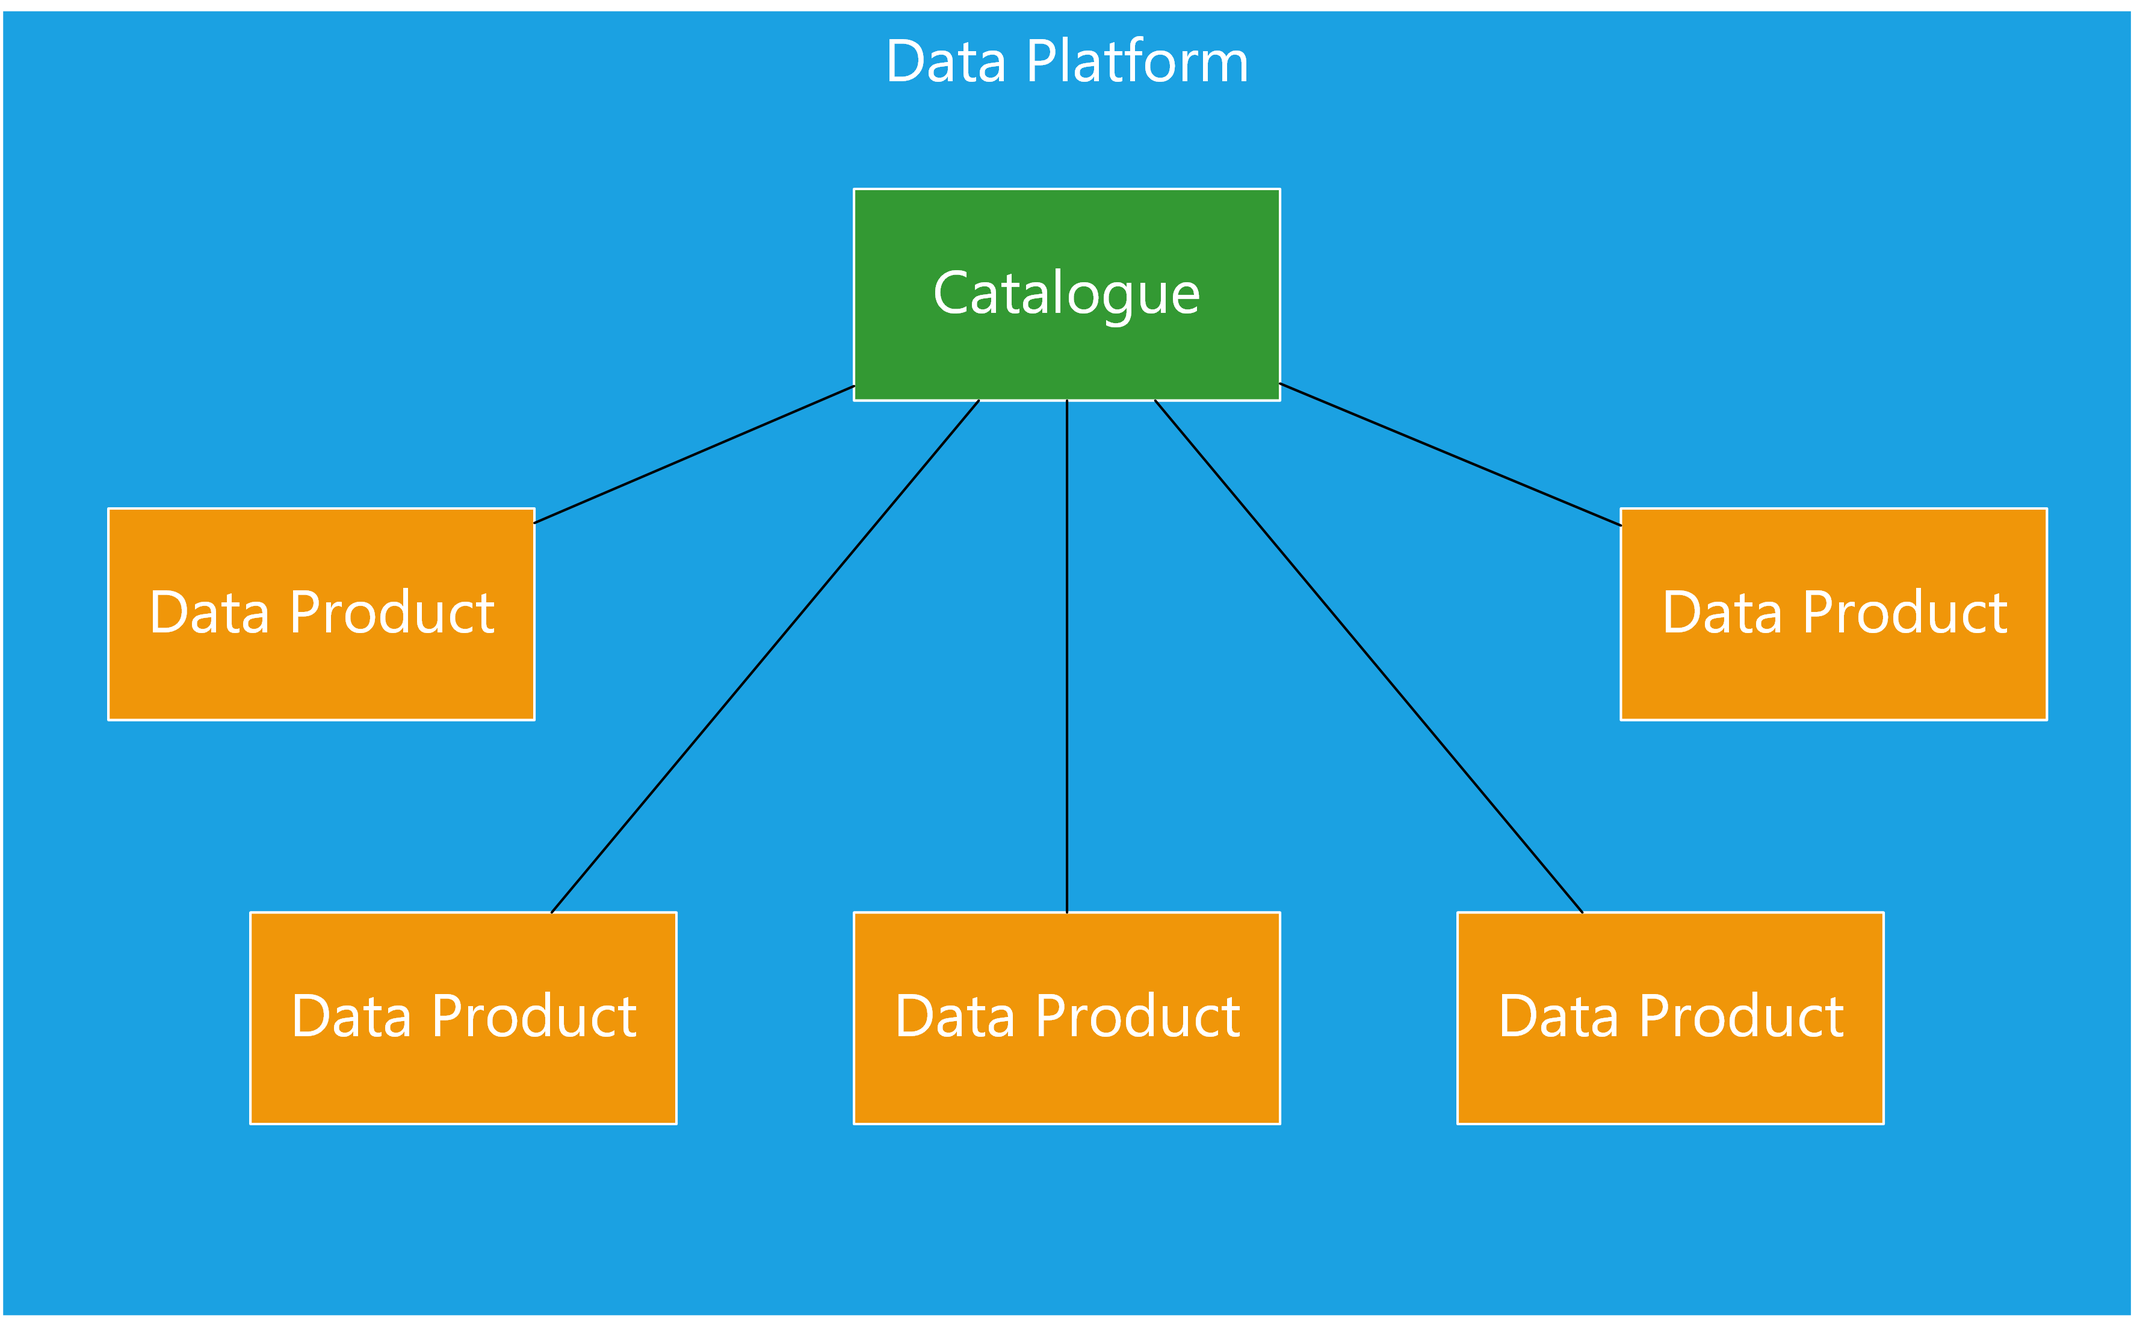
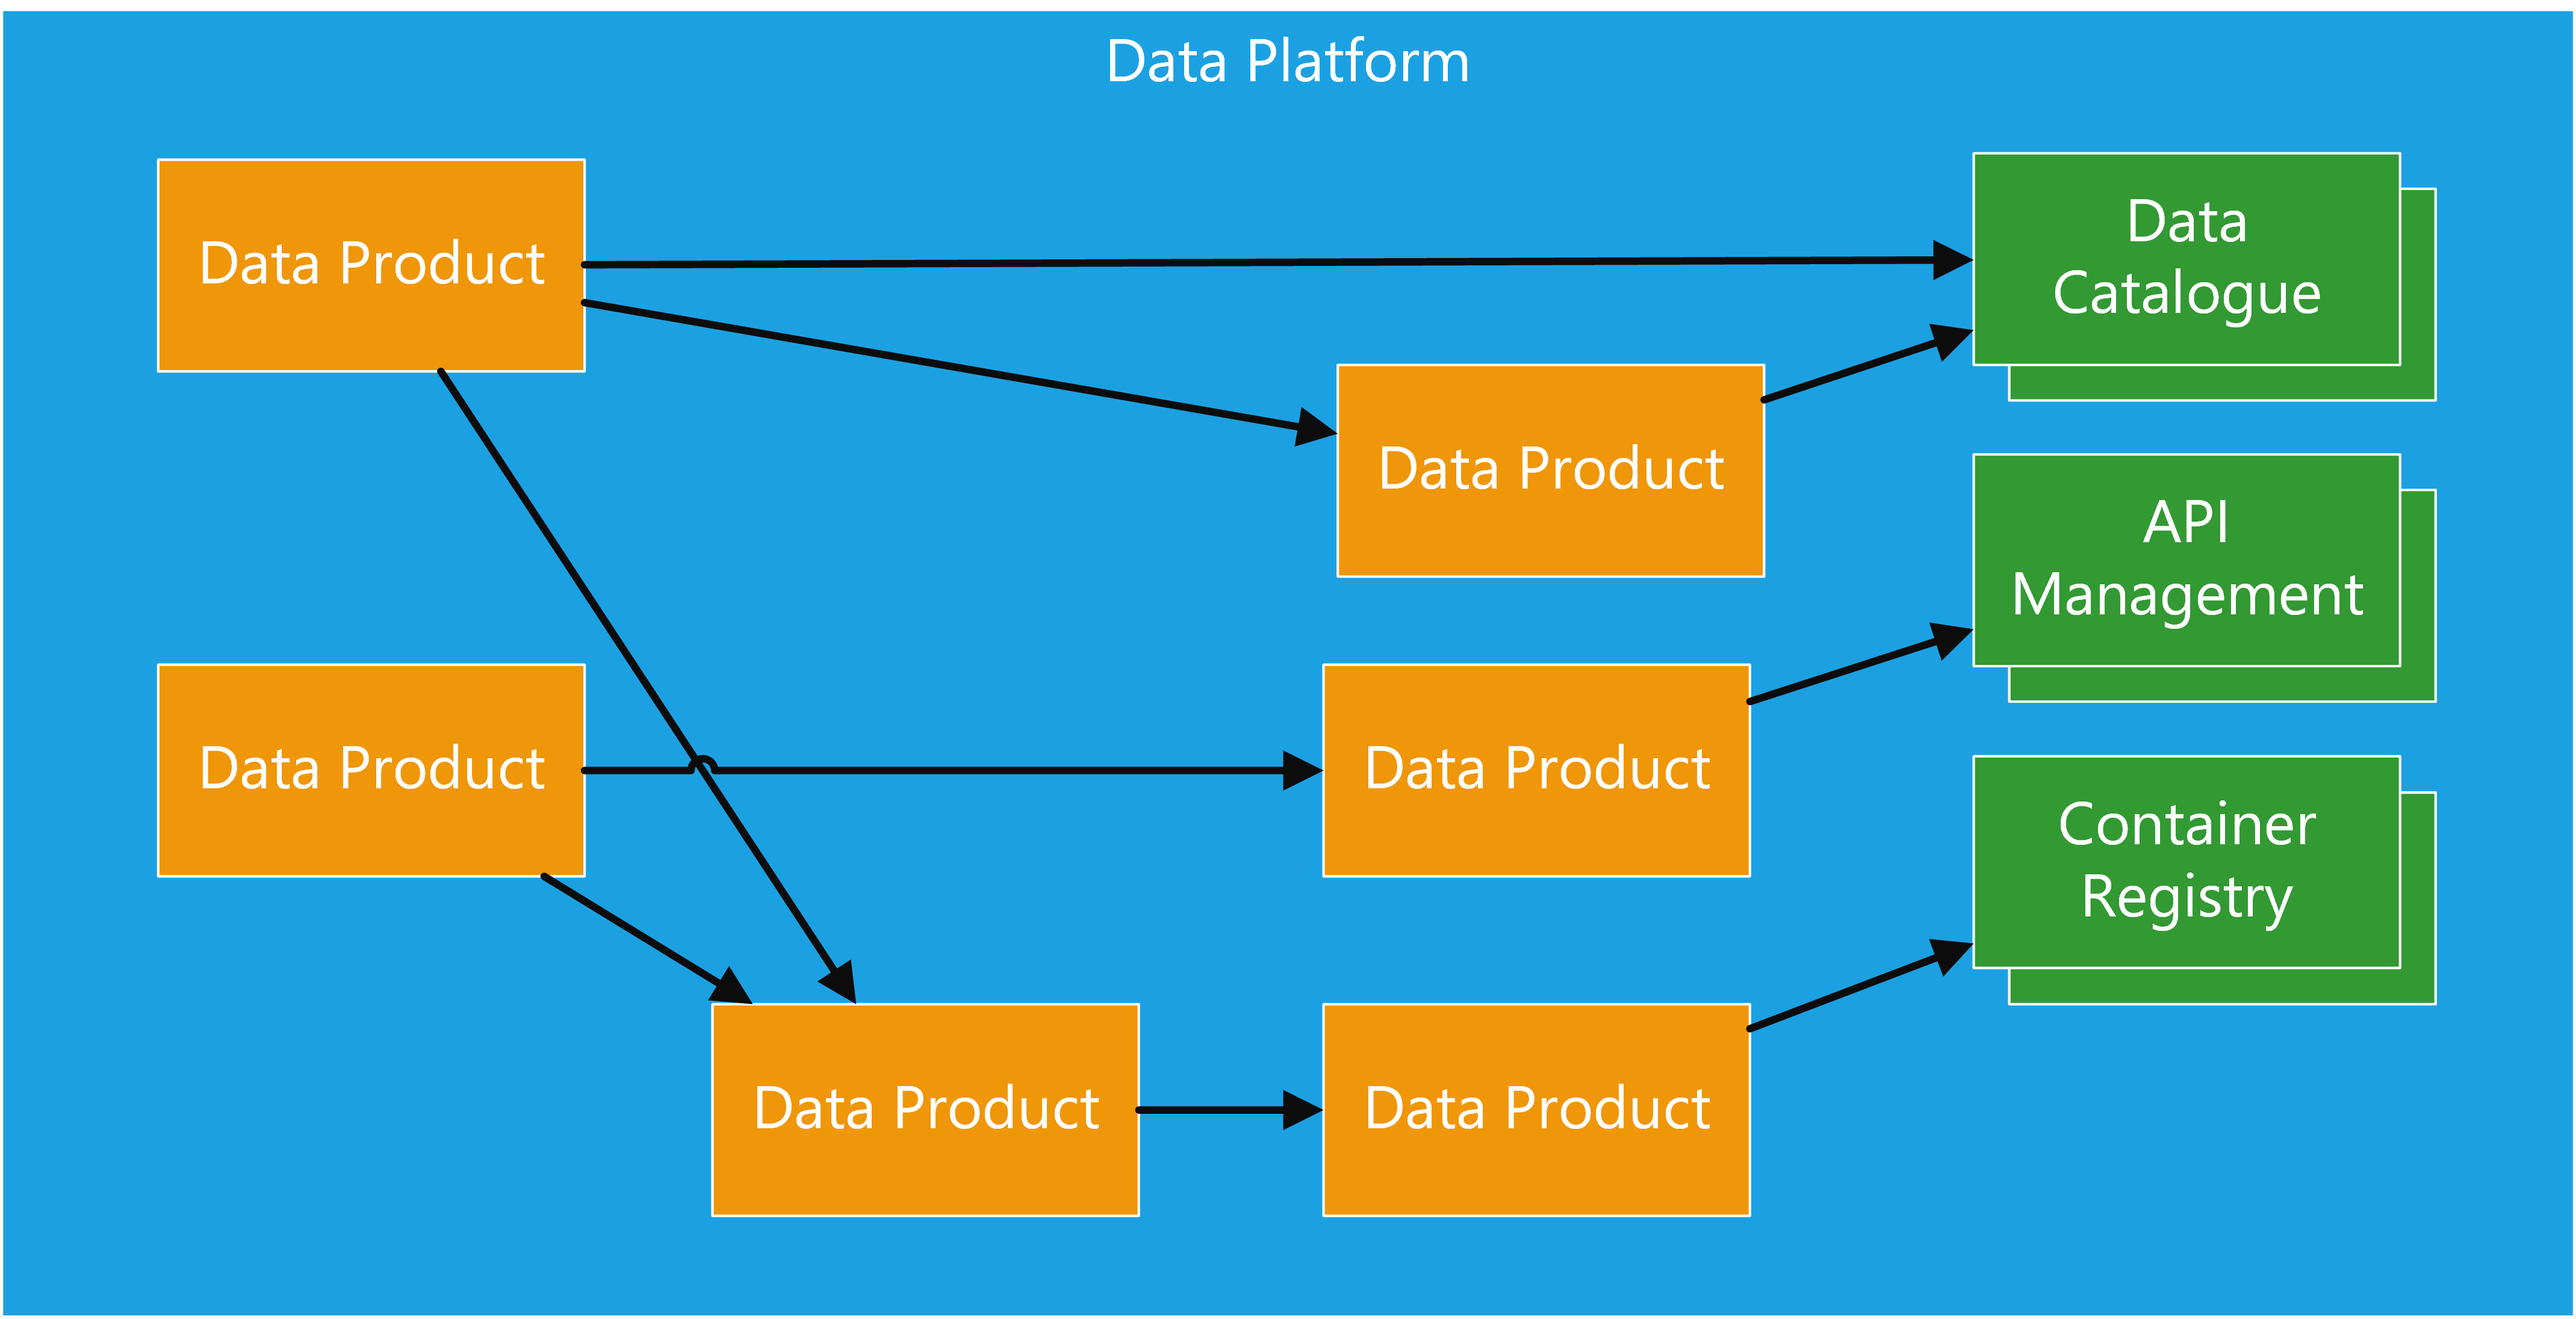
Added governance section

diff --git a/DataPlatform.md b/DataPlatform.md
@@ -8,7 +8,7 @@ This document aims to set out what a data platform is and what is necessary to m
 
 ## Data Platform
 
-At it's simplest, a data platform consists of some kind of catalog to find and describe data, and a bunch of data products which will each house some kind of solution, be it a data set or a streaming data analytics solution. Each one is an encapsulated system with known outputs and inputs. I have chosen to avoid going into technical architecture at this stage, because it distracts from the real challenge of a data platform which is how it fits within the organisation, who manages and maintains it, and who builds it? These questions must be answered before you can decide any technical aspects of the design, and they will heavily influence that design. Please bear in mind that this document describes a "cloud" data environment. If you are building a legacy architecture where you deploy the platform and then fill it with data, this document is not for you. This architecture is cloud native from the ground up, meaning that components are deployed as needed and the solution is modular with individually scaled parts. That is not to say this must be public cloud. A data product can, and often will be implemented using traditional on-premises data products. The idea of cloud architecture is related to the way we implement and scale a solution in a more modular way.
+At it's simplest, a data platform consists of a set of data products which will each house some kind of solution, be it a data set, a streaming data analytics solution, or a machine learning model. It is also generally useful, but not essential, to add some governance tooling as data products in your environment, in order to make your data sets and other products discoverable. These may include one or more container registries, API management portals, and data catalogues. Each product is an encapsulated system with known outputs and inputs. I have chosen to avoid going into technical architecture at this stage, because it distracts from the real challenge of a data platform which is how it fits within the organisation, who manages and maintains it, and who builds it? These questions must be answered before you can decide any technical aspects of the design, and they will heavily influence that design. Please bear in mind that this document describes a "cloud" data environment. If you are building a legacy architecture where you deploy the platform and then fill it with data, this document is not for you. This architecture is cloud native from the ground up, meaning that components are deployed as needed and the solution is modular with individually scaled parts. That is not to say this must be public cloud, nor that we can't use shared components. An example of a shared component might be a storage account where we "deploy" a container for a new data product rather than deploying a new storage account. A data product can, and often will be implemented using traditional on-premises data products. The idea of cloud architecture is related to the way we implement and scale a solution in a more modular way.
 
 <table>
 <tr>
@@ -17,6 +17,39 @@ At it's simplest, a data platform consists of some kind of catalog to find and d
 <td width="25%">&nbsp;</td>
 </tr>
 </table>
+
+### Governance Tooling
+
+The platform will use multiple layers of management tooling for different purposes. These are important for creating and developing the products, managing and maintaining, and for discovering the products. Each product might fit with one or more management tools in each layer.
+
+<table>
+<tr>
+<td width="25%">&nbsp;</td>
+<td width="50%"><img src="images/GovernanceLayers.png" alt="Diagram showing the various layers of governance required to manage the whole platform including examples of ITIL at the service management layer, Agile and Waterfall at the product layer, and container registries, API Management and data catalogues at the product management layer." /></td>
+<td width="25%">&nbsp;</td>
+</tr>
+</table>
+
+#### IT Service Management
+
+This whole platform is designed to sit within some kind of a service oriented architecture, and so it is quite likely that you will have something like ITIL sitting above it and managing access and change. Each data product will likely have some kind of request system to get access, alongside an approval process and possibly also an automated system to make those changes. This layer is considered out of the scope of this documentation, and does not materially affect the architecture.
+
+#### Project Management and Development
+
+Each product in the platform will have a development lifecycle which will differ based on the type of product it is. For instance, a data catalogue product might be implemented in a more traditional project management approach and then considered "finished". Other products might use DevOps and Agile approaches to ensure there is a strong feedback loop with the customers of the product, and continuous development.
+
+#### Product Management
+
+Each product will have some kind of output, whether that's a data set, ML model, container image, API or code library. Each of these would potentially be registered into a management solution to make it discoverable by the wider community whether that be inside of the business or outside.
+
+**Data Catalogues** - You might need one or more data catalogues to make your data sources and data sets discoverable, and as a place to store documentation and metadata about those data sets. These can either be centralised in the business, or community driven depending on how the business users operate, and how related the various data sets are. You may also have external data catalogues which are more carefully curated to be customer facing.
+
+**Object Repositories** - If you develop code then you almost certainly will need an internal object repository such as Azure Artifacts. This will be used to store your internally developed code libraries ready to deploy into your projects. Often you will also want to replicate public library sources for internal use to ensure that there is no disruption to your projects if that public source disappears or has an outage, as well as keeping previous versions in case a bug is introduced.
+
+**Container Registries** - Many products such as machine learning will output a container image. This image needs to be stored somewhere appropriate ready for deployment into a service. Container registries are the way to store and document these images.
+
+**API Management** - Often your products will surface an API which can be consumed by the business, for instance where a machine learning model has been deployed into service form. In this instance, you will need one or more API Management portals to allow developers to easily consume your API. Often you will need separate portals for internal and external use, as well as potentially separating by developer community where appropriate.
+
 
 ## Data Products
 
